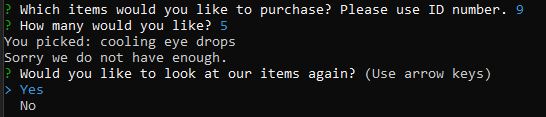
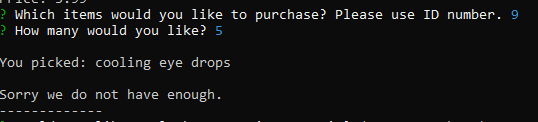
trying to center images

diff --git a/bamazonCustomer.js b/bamazonCustomer.js
@@ -91,7 +91,7 @@ function toBuy() {
                     updateProd();
                 }
                 else{
-                    console.log("\nSorry we do not have enough.")
+                    console.log("\nSorry we do not have enough." + "\n-------------")
                     startOver();
                 }
             });
@@ -141,7 +141,7 @@ function startOver() {
     inquirer.prompt({
         name: "start",
         type: "list",
-        message: "\nWould you like to look at our items again?",
+        message: "Would you like to look at our items again?",
         choices:["Yes", "No"]
     }).then(function(answer){
         if(answer.start === "Yes") {

diff --git a/README.md b/README.md
@@ -7,22 +7,20 @@ This like a Amazon-like application. Users will get the option to pick what item
 3. Always start with "node" and input bamazonCustomer.js.
 4. Press Enter.
 
-5. We see "connected as id" message. This confirms we are connected to MySQL. The first question displayed is to Buy or Exit.<p align="center">
+5. We see "connected as id" message. This confirms we are connected to MySQL. The first question displayed is to Buy or Exit. 
+<p align="center">
 <br>
 <img src= "images/start_app.png">
 </p>
 
-6.If User chooses Exit, the application ends. <p align="center">
+6. If User chooses Exit, the application ends. <p align="center">
 <br>
 <img src= "images/ExitFirst.png">
 </p>
 
-7. If user chooses Buy, the application display items to buy. There are a total of 10 items on this application, but this image is only listing 6.<p align="center">
-<br>
-<img src= "images/Buy.png">
-</p>
+7. If user chooses Buy, the application display items to buy. There are a total of 10 items on this application, but this image is only listing 6.<p align="center"><br><img src= "images/Buy.png"></p>
 
-8. <p align="center">User needs to input ID number of item as instructed. Once done so, the application will then ask to input quantity.
+8. User needs to input ID number of item as instructed. Once done so, the application will then ask to input quantity.<p align="center">
 <br>
 <img src= "images/Id.quantity.png">
 </p>
@@ -33,12 +31,12 @@ This like a Amazon-like application. Users will get the option to pick what item
 </p>
 
 ### Item low in stock
-<p align="center"><b>If item is low in stock and not enough per User request, a message will inform of this. It'll ask if User would like to look at list of items again.</b>
+<p align="center"><b>If item is not enough quantity per User request, a message will inform of this. It'll ask if User would like to look at list of items again.</b>
 <br>
 <img src= "images/notEnough.png">
 </p>
 
-<p align="center"><b>If user picks Yes, the list of items will show again and start over, asking User to pick item by ID number.</b>
+<p align="center"><b>If user picks Yes, the list of items will show again and application start over.</b>
 <br>
 <img src= "images/notEnough_listAgain.png">
 </p>
